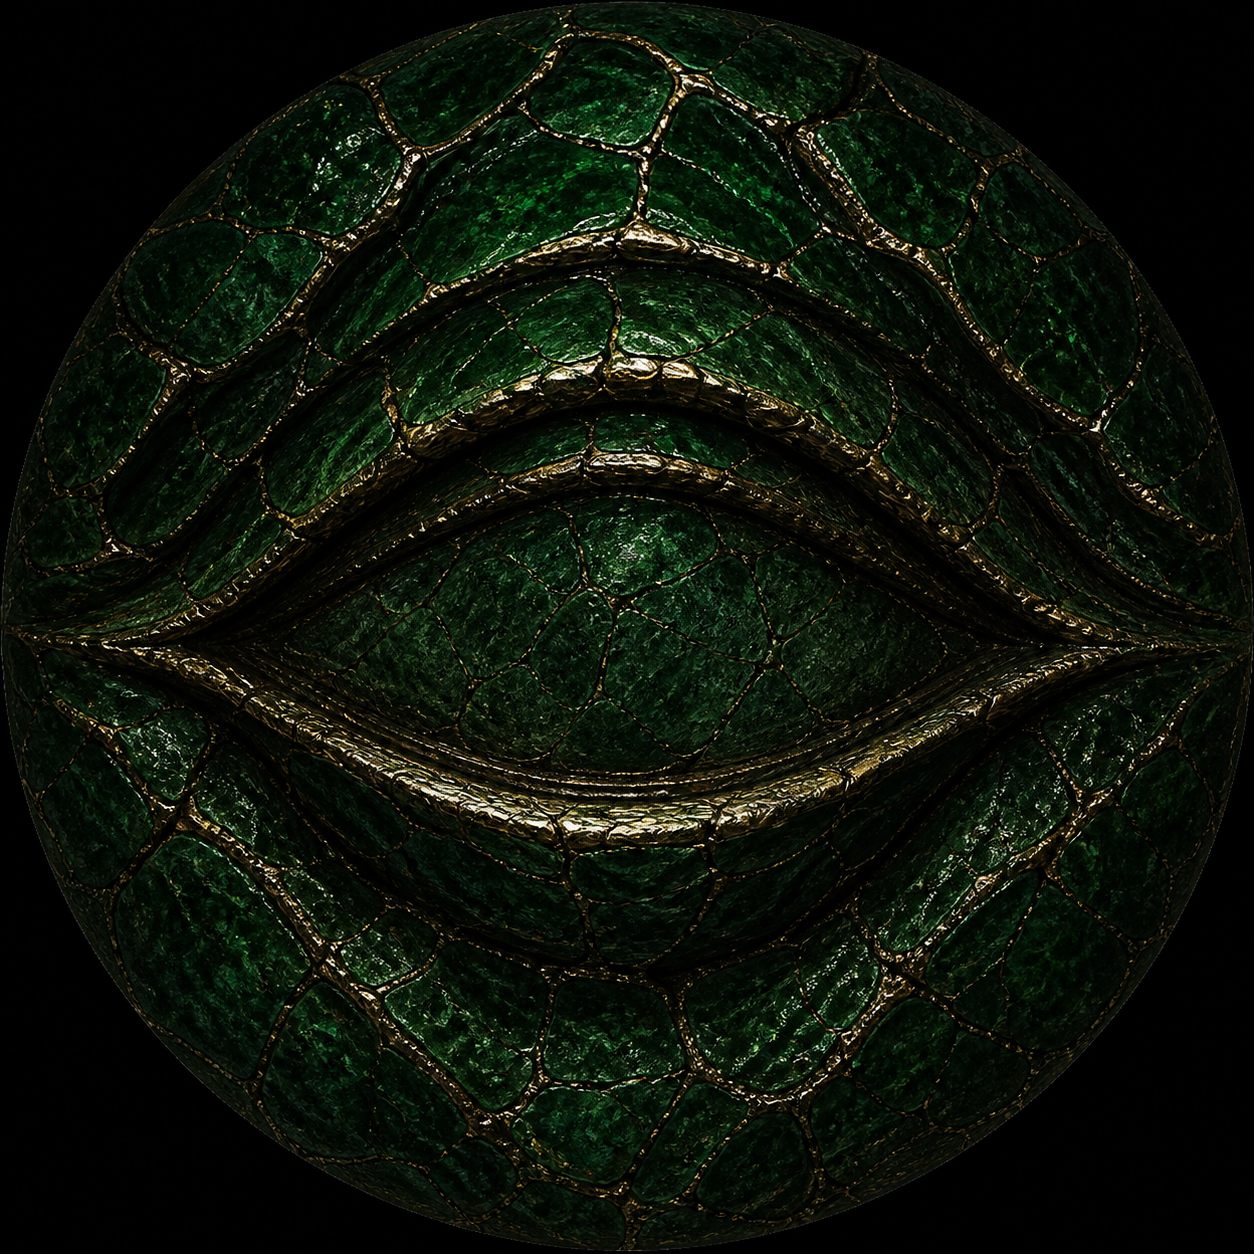
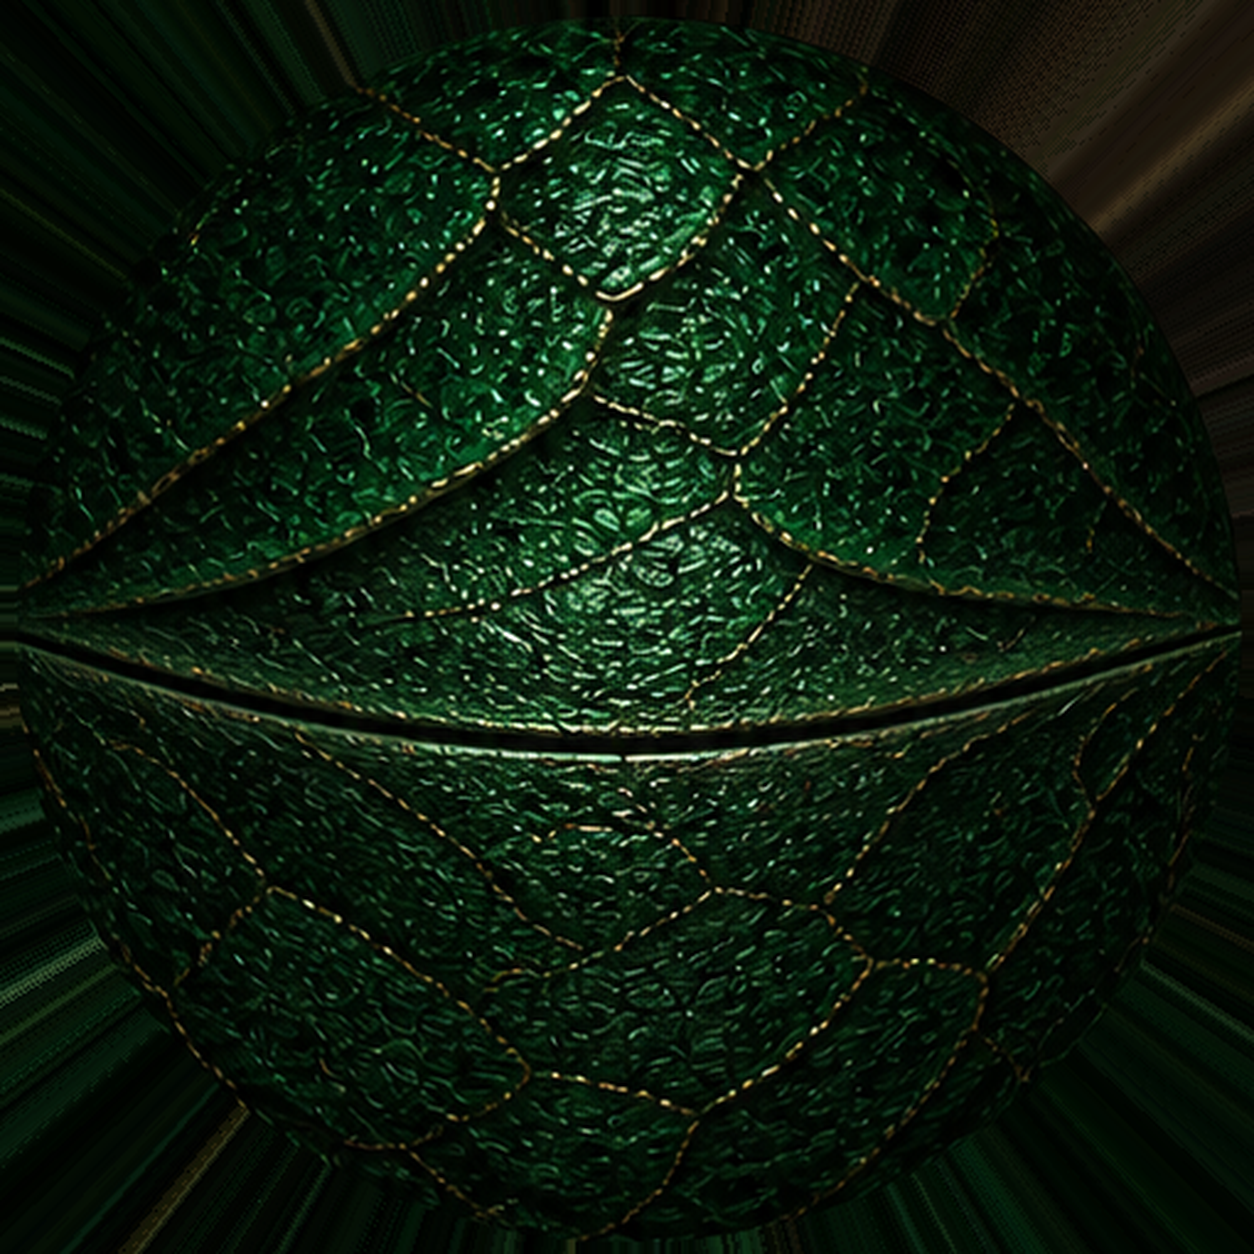
design: use owner-selected sealed eye lids

diff --git a/ops/mobile-eye-surround-assets.py b/ops/mobile-eye-surround-assets.py
@@ -5,6 +5,7 @@ from __future__ import annotations
 
 import argparse
 import hashlib
+import io
 import math
 import sys
 from pathlib import Path
@@ -13,10 +14,12 @@ from PIL import Image, ImageEnhance, ImageOps, ImageDraw
 
 
 ROOT = Path(__file__).resolve().parents[1]
+REFERENCES = ROOT / "design" / "mobile-4d-references"
 MATERIALS = ROOT / "design" / "mobile-asset-redraw" / "materials"
 KIT = ROOT / "design" / "mobile-asset-redraw" / "kit"
 SOURCE = ROOT / "design" / "mobile-asset-redraw" / "source"
 MASTER = MATERIALS / "mobile_eye_surround_c.png"
+OWNER_REFERENCE = REFERENCES / "09-owner-selected-closed-eye-v2-2026-08-08.png"
 
 MASTER_SIZE = (2160, 4670)
 MATERIAL_CENTER = (1080, 1751)
@@ -25,9 +28,16 @@ MATERIAL_FEATHER = 6
 MATERIAL_GUARD_RADIUS = 650
 LIGHTS = ("l", "c", "r")
 
+OWNER_REFERENCE_SIZE = (852, 1846)
+OWNER_REFERENCE_SHA256 = (
[1 lines of base64/hex data omitted]
+)
+OWNER_MATERIAL_CROP = (171, 310, 681, 820)
+OWNER_MATERIAL_CENTER = (255.0, 255.39)
+OWNER_TRUSTED_EMERALD_RADIUS = 250.0
 MASTER_MATERIAL_SIZE = (1254, 1254)
 MASTER_MATERIAL_SHA256 = (
[2 lines of base64/hex data omitted]
 )
 EXPECTED_RING_OUTSIDE_SHA256 = {
[1 lines of base64/hex data omitted]
@@ -196,6 +206,94 @@ def outside_circle_digest(
     return hashlib.sha256(outside.tobytes()).hexdigest()
 
 
+def _load_owner_reference() -> Image.Image:
+    actual_sha256 = hashlib.sha256(OWNER_REFERENCE.read_bytes()).hexdigest()
+    if actual_sha256 != OWNER_REFERENCE_SHA256:
+        raise ValueError(
+            f"{OWNER_REFERENCE.name}: expected SHA-256 {OWNER_REFERENCE_SHA256}, "
+            f"got {actual_sha256}",
+        )
+    with Image.open(OWNER_REFERENCE) as source:
+        if source.size != OWNER_REFERENCE_SIZE or source.mode != "RGB":
+            raise ValueError(
+                f"{OWNER_REFERENCE.name}: expected RGB {OWNER_REFERENCE_SIZE}, "
+                f"got {source.mode} {source.size}",
+            )
+        return source.copy()
+
+
+def _extend_trusted_emerald_edge(material: Image.Image) -> Image.Image:
+    """Clamp pixels beyond the trusted emerald radius to its radial edge."""
+    expected_size = (
+        OWNER_MATERIAL_CROP[2] - OWNER_MATERIAL_CROP[0],
+        OWNER_MATERIAL_CROP[3] - OWNER_MATERIAL_CROP[1],
+    )
+    if material.size != expected_size or material.mode != "RGB":
+        raise ValueError(
+            f"owner material crop: expected RGB {expected_size}, "
+            f"got {material.mode} {material.size}",
+        )
+
+    center_x, center_y = OWNER_MATERIAL_CENTER
+    source = material.load()
+    extended = material.copy()
+    target = extended.load()
+    for y in range(material.height):
+        delta_y = y - center_y
+        for x in range(material.width):
+            delta_x = x - center_x
+            distance = math.hypot(delta_x, delta_y)
+            if distance <= OWNER_TRUSTED_EMERALD_RADIUS:
+                continue
+            sample_x = round(
+                center_x + delta_x * OWNER_TRUSTED_EMERALD_RADIUS / distance,
+            )
+            sample_y = round(
+                center_y + delta_y * OWNER_TRUSTED_EMERALD_RADIUS / distance,
+            )
+            target[x, y] = source[sample_x, sample_y]
+    return extended
+
+
+def render_expected_master() -> Image.Image:
+    """Build the tracked 1254px RGB material from the archived owner reference."""
+    reference = _load_owner_reference()
+    material = reference.crop(OWNER_MATERIAL_CROP)
+    material = _extend_trusted_emerald_edge(material)
+    result = material.resize(MASTER_MATERIAL_SIZE, Image.Resampling.LANCZOS)
+    result.info.clear()
+    return result
+
+
+def _encoded_master(expected: Image.Image) -> bytes:
+    buffer = io.BytesIO()
+    expected.save(buffer, format="PNG", optimize=False, compress_level=9)
+    return buffer.getvalue()
+
+
+def write_master(expected: Image.Image) -> None:
+    MASTER.write_bytes(_encoded_master(expected))
+
+
+def check_master(expected: Image.Image) -> int:
+    if not MASTER.is_file():
+        print(f"MISMATCH {MASTER.relative_to(ROOT)}")
+        return 1
+    encoded_matches = MASTER.read_bytes() == _encoded_master(expected)
+    with Image.open(MASTER) as tracked:
+        pixels_match = (
+            tracked.mode == "RGB"
+            and tracked.size == MASTER_MATERIAL_SIZE
+            and tracked.tobytes() == expected.tobytes()
+        )
+    if not encoded_matches or not pixels_match:
+        print(f"MISMATCH {MASTER.relative_to(ROOT)}")
+        return 1
+    print("PASS owner-selected eye-surround master matches tracked PNG")
+    return 0
+
+
+
 def _load_master() -> Image.Image:
     actual_sha256 = hashlib.sha256(MASTER.read_bytes()).hexdigest()
     if actual_sha256 != MASTER_MATERIAL_SHA256:
@@ -265,11 +363,24 @@ def check_outputs(outputs: dict[Path, Image.Image]) -> int:
 def main() -> int:
     parser = argparse.ArgumentParser(description=__doc__)
     parser.add_argument(
+        "--material-only",
+        action="store_true",
+        help="write or check only the lightweight tracked eye-surround master",
+    )
+    parser.add_argument(
         "--check",
         action="store_true",
         help="compare decoded tracked RGBA outputs without writing files",
     )
     args = parser.parse_args()
+    if args.material_only:
+        expected_master = render_expected_master()
+        if args.check:
+            return check_master(expected_master)
+        write_master(expected_master)
+        print("Rebuilt owner-selected eye-surround master.")
+        return 0
+
     outputs = render_expected_outputs()
     if args.check:
         return check_outputs(outputs)
